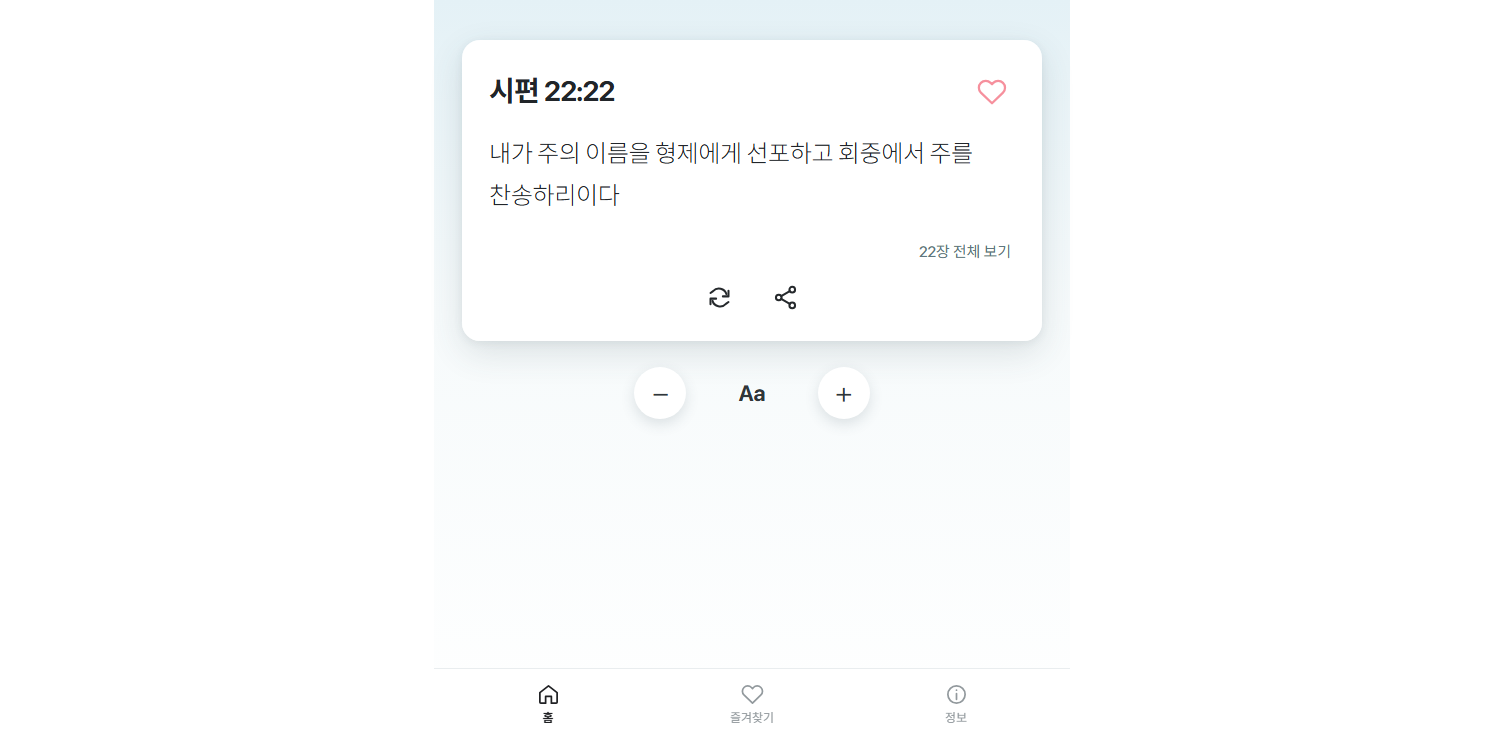
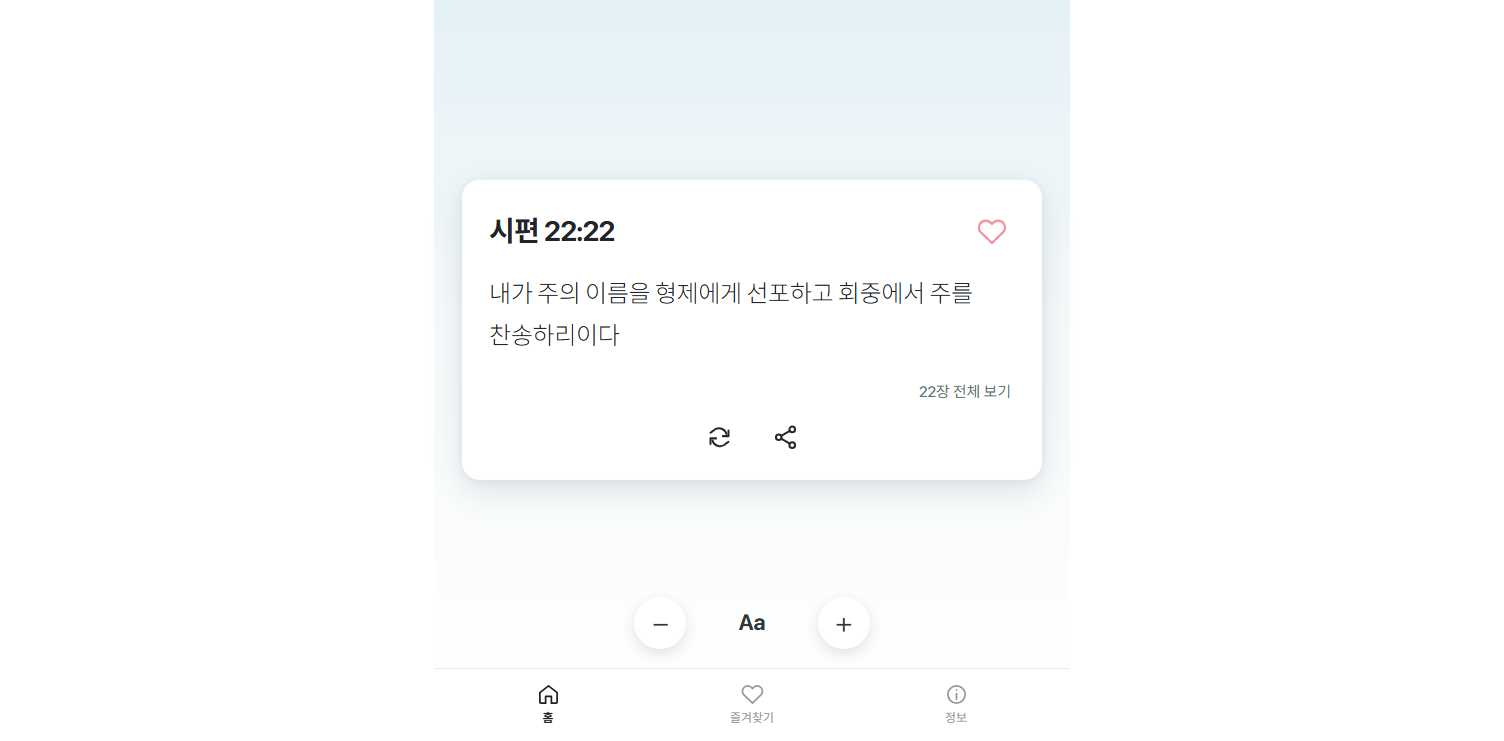
Center the home verse card

diff --git a/toss-miniapp/src/style.css b/toss-miniapp/src/style.css
@@ -10,7 +10,10 @@ button:focus-visible, textarea:focus-visible { outline: 3px solid #596d7a; outli
 h1:focus { outline: none; }
 .app { width: min(100%, 636px); min-height: 100dvh; margin: auto; background: linear-gradient(180deg, #e4f1f6 0%, #f6fafb 42%, #fff 100%); }
 main { min-height: 100dvh; padding: 34px 28px calc(105px + var(--safe-bottom)); }
-.page-today main { padding-top: 126px; }
+.page-today main { padding: 0 28px calc(82px + var(--safe-bottom)); }
+.today-layout { position: relative; min-height: calc(100dvh - 82px - var(--safe-bottom)); }
+.today-layout .verse-card { position: absolute; top: 50%; left: 0; right: 0; transform: translateY(-50%); max-height: calc(100dvh - 250px - var(--safe-bottom)); overflow-y: auto; }
+.today-layout .font-controls { position: absolute; left: 0; right: 0; bottom: 24px; margin: 0 auto; }
 .page-chapter { background: linear-gradient(180deg, #fff7c5 0%, #fffbee 48%, #fff 100%); }
 .page-heading { margin-bottom: 12px; }
 .eyebrow { color: #667780; font-size: 13px; font-weight: 700; margin: 0 0 8px; }
@@ -65,5 +68,5 @@ blockquote { margin: 0; line-height: 1.75; letter-spacing: -.35px; overflow-wrap
 .manual-share textarea { width: 100%; min-height: 170px; padding: 12px; border: 1px solid #b8c0c5; border-radius: 8px; background: #fff; color: #202124; line-height: 1.65; }
 .manual-share button { margin: 12px 8px 0 0; }
 .license { white-space: pre-wrap; overflow-wrap: anywhere; font-size: 12px; line-height: 1.7; color: #52616a; }
-@media (max-width: 359px) { main { padding-left: 18px; padding-right: 18px; } .page-today main { padding-top: 90px; } .verse-card { padding: 24px 20px 18px; } .verse-card-heading h1 { font-size: 24px; } }
-@media (orientation: landscape) { .page-today main { padding-top: 40px; } .font-controls { margin-top: 24px; } }
+@media (max-width: 359px) { main { padding-left: 18px; padding-right: 18px; } .page-today main { padding-left: 18px; padding-right: 18px; } .verse-card { padding: 24px 20px 18px; } .verse-card-heading h1 { font-size: 24px; } }
+@media (orientation: landscape) { .today-layout .verse-card { max-height: calc(100dvh - 130px); } .today-layout .font-controls { bottom: 8px; } }

diff --git a/toss-miniapp/src/App.tsx b/toss-miniapp/src/App.tsx
@@ -115,7 +115,7 @@ export function App() {
       {!bible && !error && <p role="status" className="empty">말씀을 준비하고 있어요…</p>}
       {error && <div className="empty" role="alert"><p>{error}</p><Button onClick={() => { setError(''); setAttempt(a => a + 1); }}>다시 불러오기</Button></div>}
       {bible && <>
-        {route.page === 'today' && current && <>
+        {route.page === 'today' && current && <section className="today-layout">
           <article className="verse-card" aria-label="오늘의 말씀">
             <div className="verse-card-heading"><h1 ref={heading} tabIndex={-1}>{reference(current).replace('장 ', ':').replace('절', '')}</h1><button className={`heart-button ${prefs.favorites.includes(current.id) ? 'saved' : ''}`} aria-label="즐겨찾기" onClick={() => toggle(current)}><AppIcon name="heart" filled={prefs.favorites.includes(current.id)} /></button></div>
             <blockquote style={{ fontSize: prefs.fontSize }}>{current.text}</blockquote>
@@ -123,7 +123,7 @@ export function App() {
             <div className="icon-actions"><button aria-label="다른 말씀 읽기" onClick={() => { setCurrent(randomVerse(bible.verses, current.id)); setManualText(''); setNotice('새로운 말씀을 골랐어요.'); }}><AppIcon name="refresh" /></button><button aria-label="말씀 공유" disabled={sharing} onClick={() => void shareVerse(current)}><AppIcon name="share" /></button></div>
           </article>
           {fontControls}
-        </>}
+        </section>}
         {route.page === 'favorites' && <>
           {fontControls}
           <p className="muted">마음에 담은 말씀 {prefs.favorites.length}개</p>
